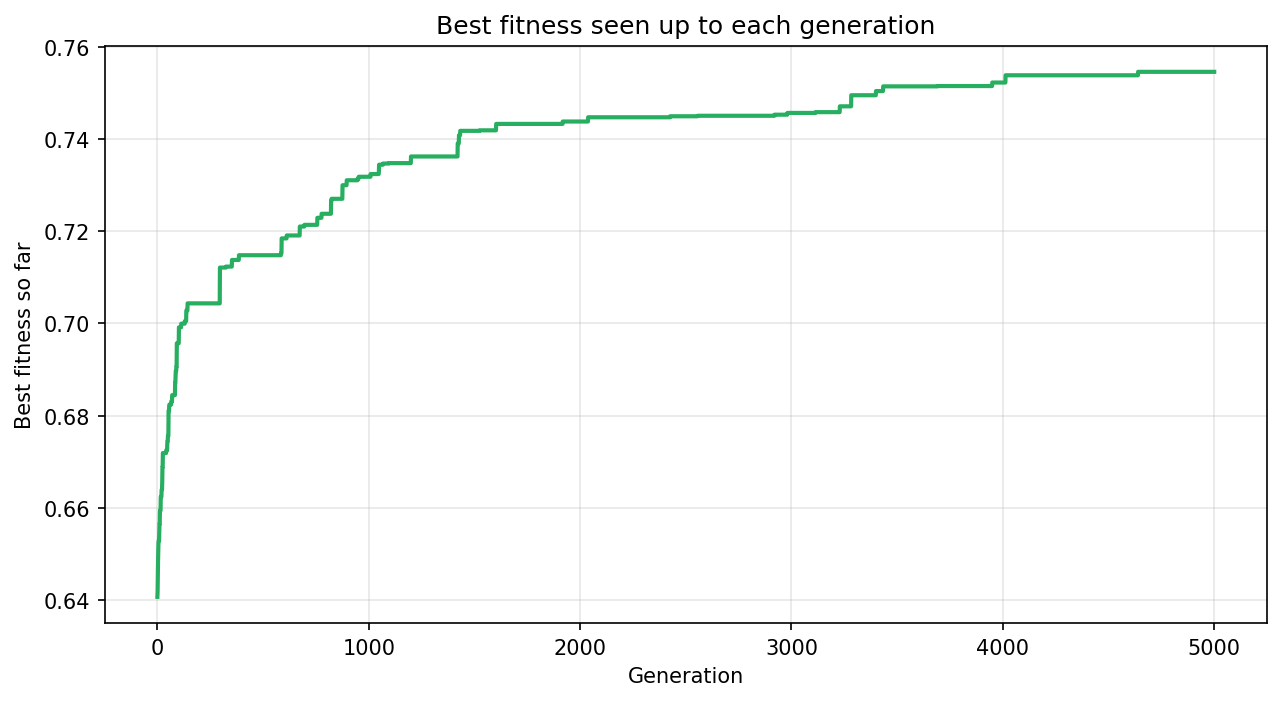
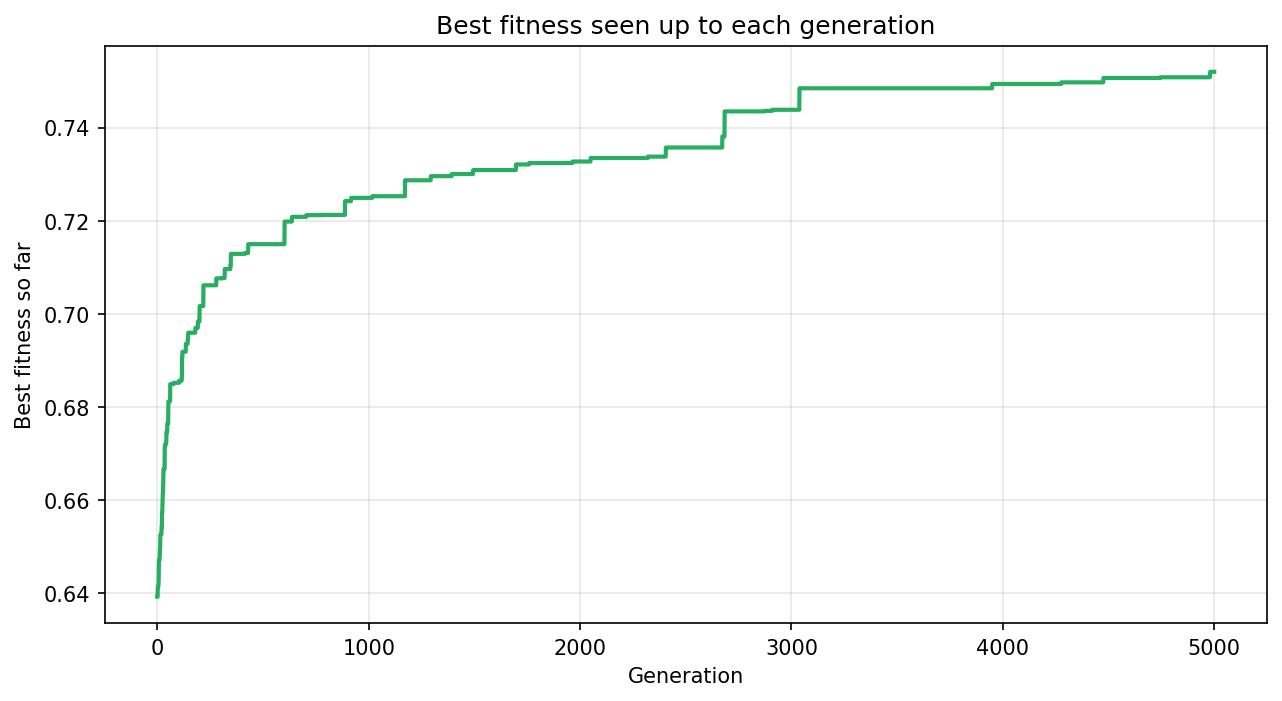
results architecture and some expereiments

diff --git a/evo_algorithm/main.py b/evo_algorithm/main.py
@@ -3,15 +3,47 @@ from data_loader import load_distances
 from fitness import FitnessEvaluator
 from ea import EvolutionaryAlgorithm
 from visualizations import Visualizations
+from run_manager import RunManager
+
+
+def get_run_name():
+    """Prompt user for run name."""
+    run_name = input("Enter run name: ").strip()
+    if not run_name:
+        raise ValueError("Run name cannot be empty")
+    return run_name
+
 
 def main():
     '''runs experiments as desired, rifht now it's short in options, will be further
     improved for modularity and experiment variability'''
 
+    # Get run name and setup directory
+    run_name = get_run_name()
+    run_manager = RunManager()
+
     genetic, geographic, subject_names = load_distances() # loads data
     num_subjects = len(subject_names)
     k_groups = 4 # define K number (main parameter)
     min_group_size = max(1, num_subjects // (k_groups * 10)) # can be changed
+
+    # Prepare parameters for metadata
+    parameters = {
+        "k_groups": k_groups,
+        "population_size": 50,
+        "generations": 5000,
+        "crossover_rate": 0.9,
+        "mutation_rate": 0.05,
+        "elitism_count": 2,
+        "alpha": 1,
+        "beta": 1,
+        "gamma": 1,
+        "min_group_size": min_group_size
+    }
+
+    # Setup run directory and save metadata
+    run_dir = run_manager.setup_run(run_name, parameters)
+    print(f"\nRun directory: {run_dir}\n")
 
     # class initialization
     evaluator = FitnessEvaluator(genetic_matrix=genetic,geographic_matrix=geographic,k_groups=k_groups,alpha=1,beta=1,min_group_size=min_group_size,gamma=1)
@@ -37,8 +69,8 @@ def main():
         if len(names) > 10:
             print(f"  ... and {len(names) - 10} more")
 
-    # creates plots
-    Visualizations(subject_names=subject_names,chromosome=best.chromosome,k_groups=k_groups,genetic_matrix=genetic,geographic_matrix=geographic,fitness_history=ea.history).plot_all()
+    # creates plots with run-specific directory
+    Visualizations(subject_names=subject_names,chromosome=best.chromosome,k_groups=k_groups,genetic_matrix=genetic,geographic_matrix=geographic,fitness_history=ea.history,output_dir=run_dir).plot_all()
 
 if __name__ == "__main__":
     main()

diff --git a/evo_algorithm/run_manager.py b/evo_algorithm/run_manager.py
@@ -1,0 +1,34 @@
+import json
+from pathlib import Path
+from datetime import datetime
+
+
+class RunManager:
+    def __init__(self):
+        self.runs_dir = Path(__file__).resolve().parent.parent / "results" / "runs"
+        self.run_dir = None
+        self.metadata = {}
+
+    def setup_run(self, run_name, parameters):
+        """Create run directory and initialize metadata."""
+        self.run_dir = self.runs_dir / run_name
+        self.run_dir.mkdir(parents=True, exist_ok=True)
+
+        self.metadata = {
+            "run_name": run_name,
+            "timestamp": datetime.now().isoformat(),
+            "parameters": parameters
+        }
+
+        self._save_metadata()
+        return self.run_dir
+
+    def _save_metadata(self):
+        """Save metadata to JSON file."""
+        metadata_path = self.run_dir / "metadata.json"
+        with open(metadata_path, "w") as f:
+            json.dump(self.metadata, f, indent=2)
+
+    def get_run_dir(self):
+        """Return the current run directory."""
+        return self.run_dir

diff --git a/evo_algorithm/fitness.py b/evo_algorithm/fitness.py
@@ -52,7 +52,9 @@ class FitnessEvaluator:
             geo_cost = 0.0
 
         # fitness score computation
-        individual.fitness = self.offset + (self.alpha * separation - self.beta * variance - self.gamma * geo_cost)
+        individual.fitness = -geo_cost
+        #individual.fitness = self.offset + (self.alpha * separation - self.beta * variance - self.gamma * geo_cost)
+
         return individual.fitness
 
     def validate_constraints(self, chr):
